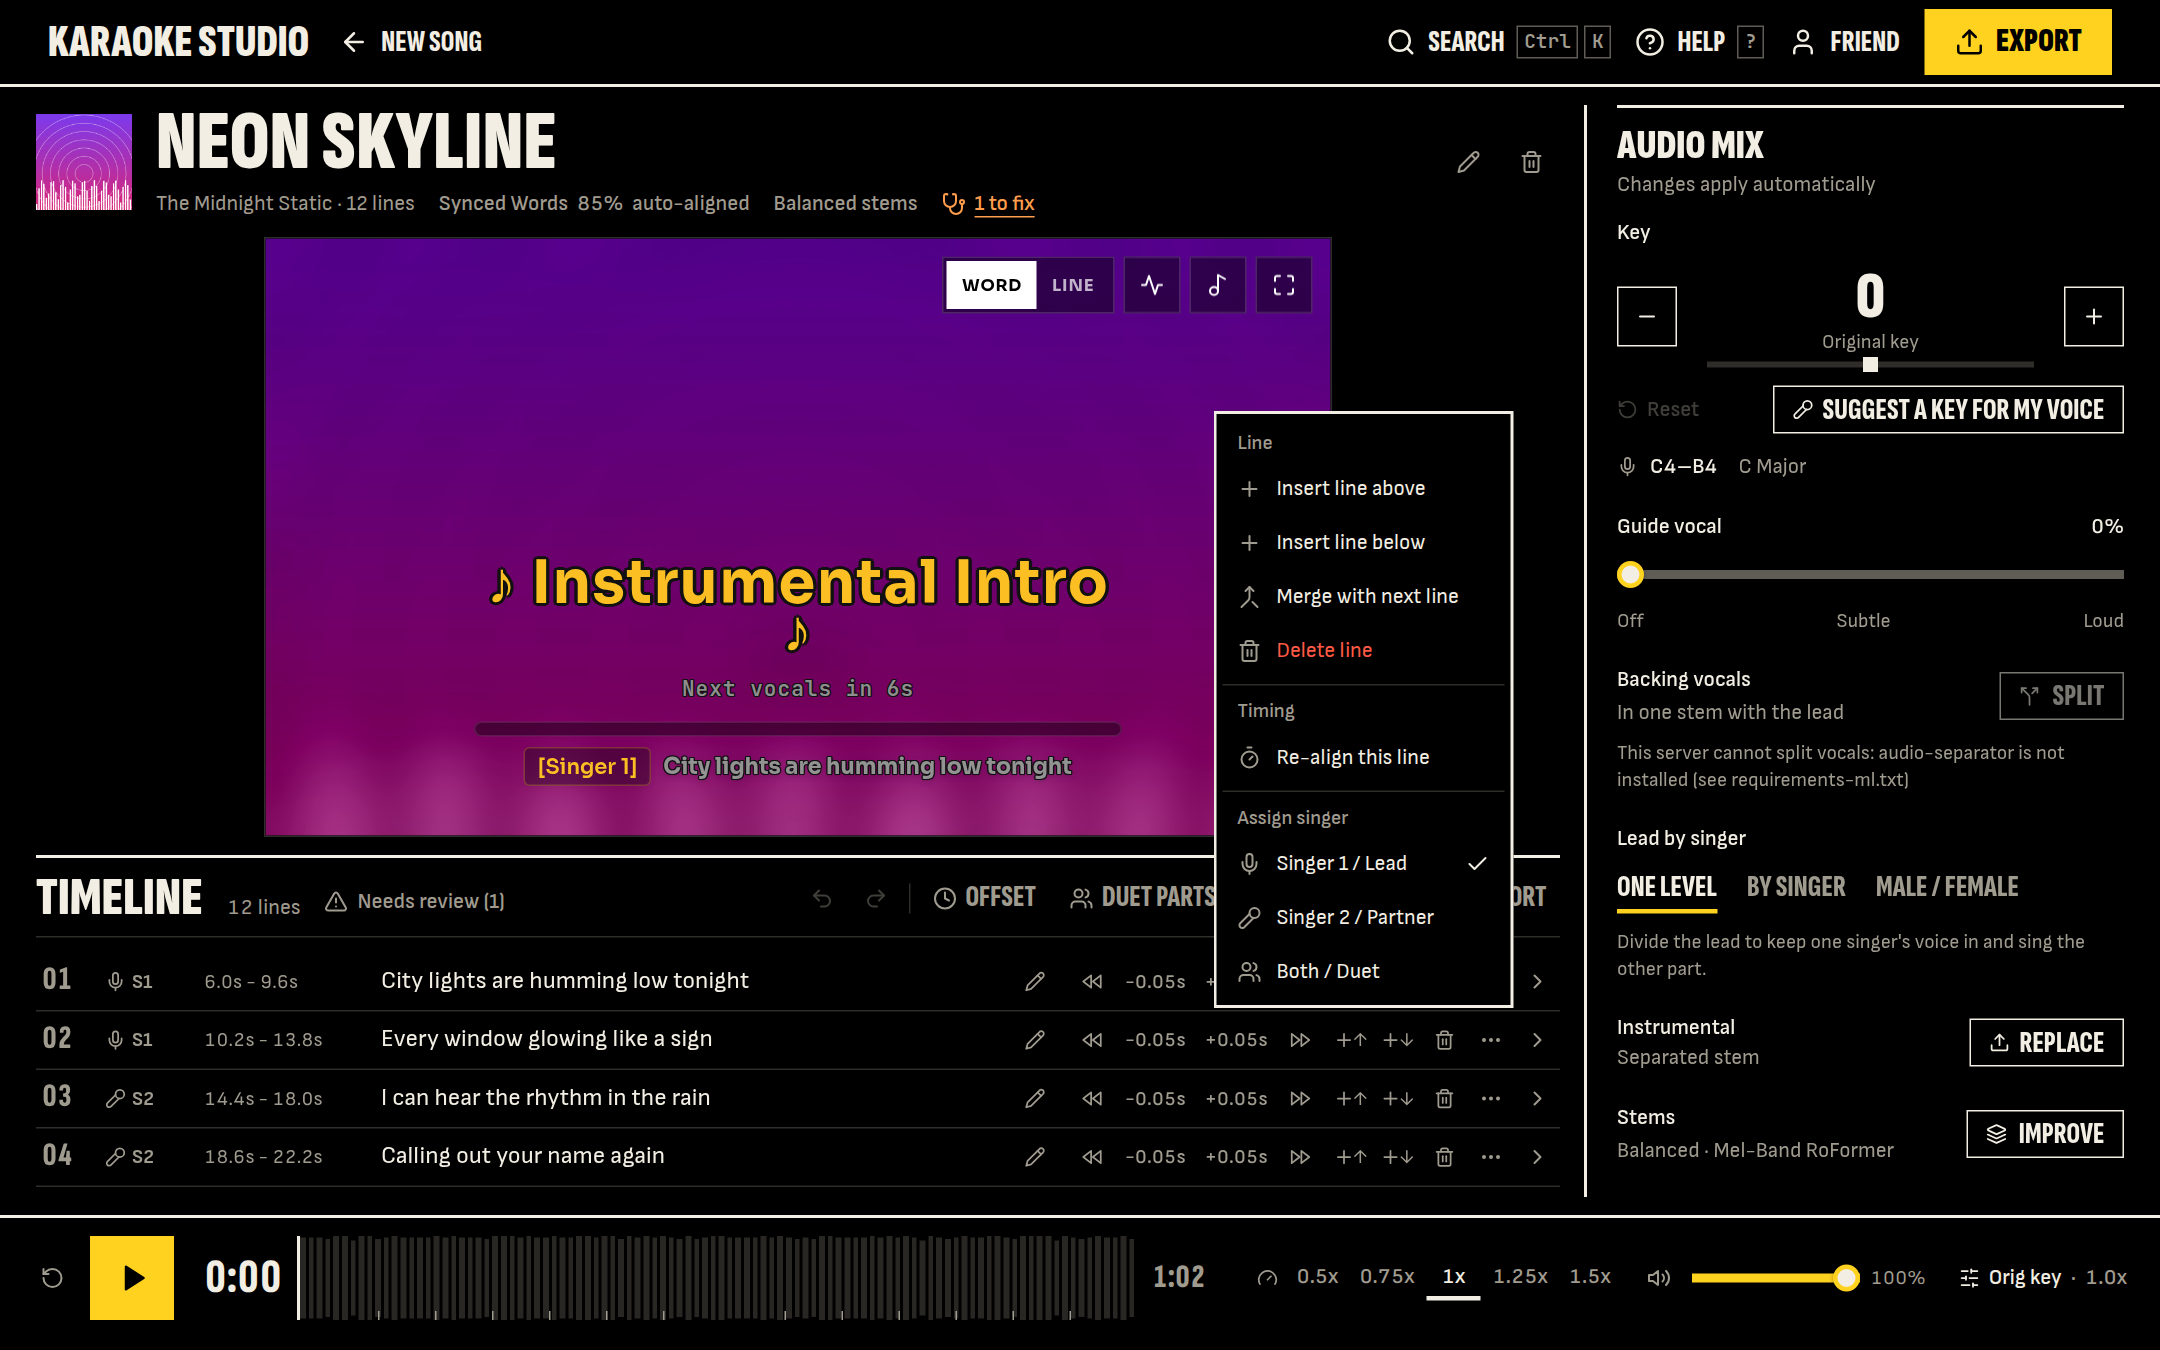
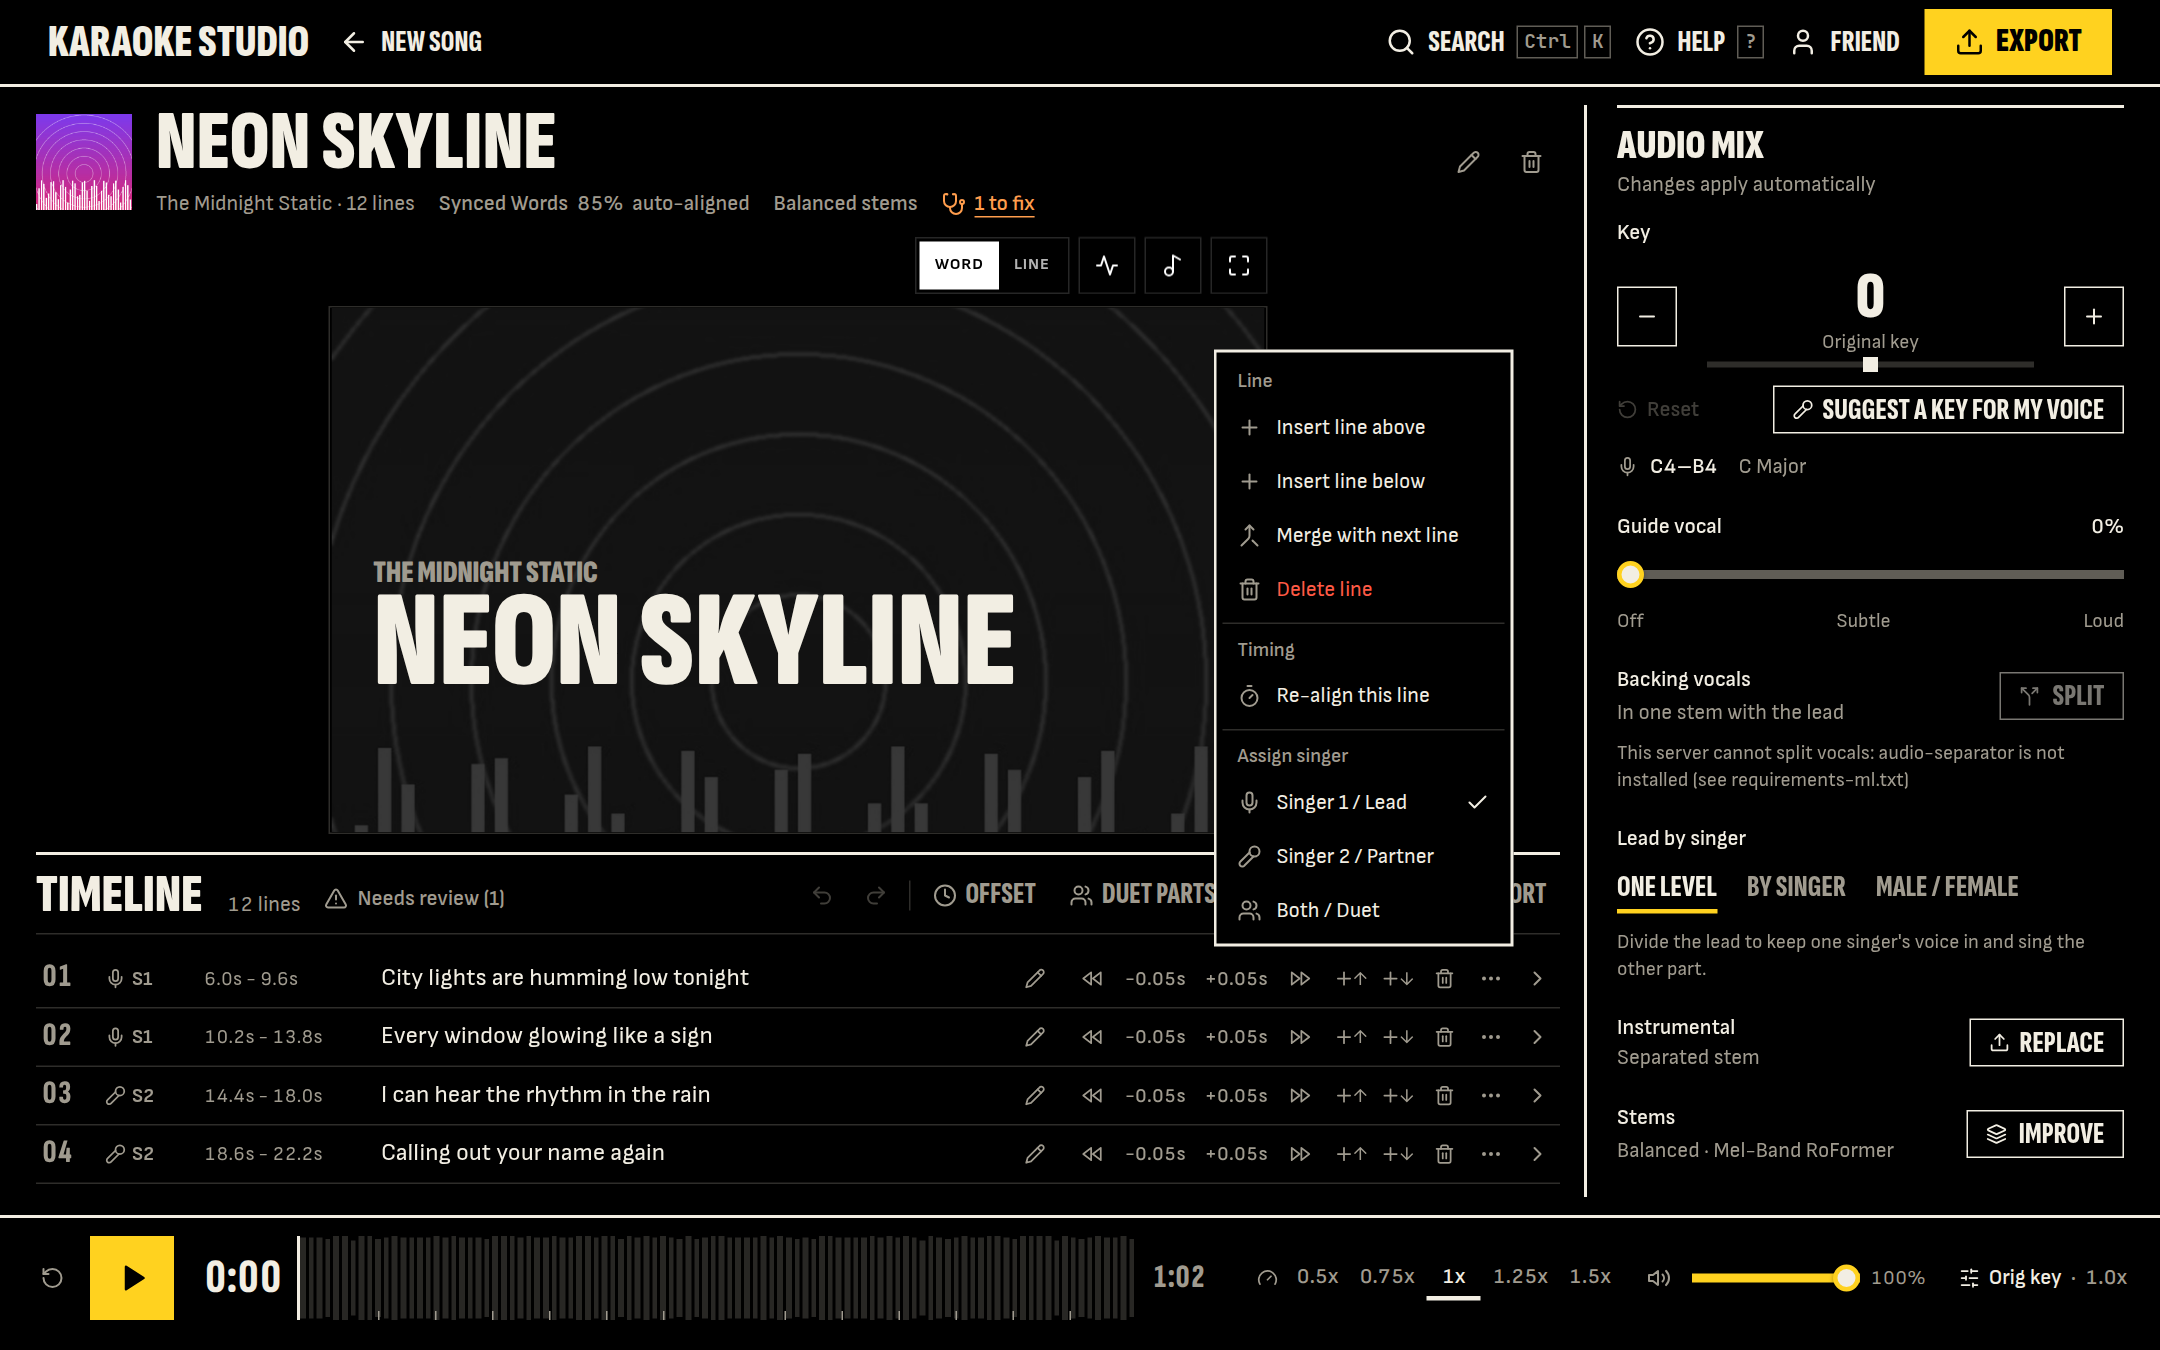
docs: retake the studio screenshots with the stage in its looks
The thirteen screenshots that show the studio's stage are taken again
from the demo library, at their old sizes and in the states they showed.
The README's tools list gains look_frames.

diff --git a/README.md b/README.md
@@ -336,6 +336,9 @@ python -m backend.tools.benchmark_separation --mix song.wav --vocals ref_vocals.
 
 # Seed a demo workspace with synthetic songs for UI work and screenshots
 KARAOKE_DATA_DIR=/tmp/karaoke-demo python -m backend.tools.seed_demo
+
+# Render stills of every look in both formats through the real export path (--clips adds short videos)
+python -m backend.tools.look_frames --out /tmp/looks
 ```
 
 ## System requirements
